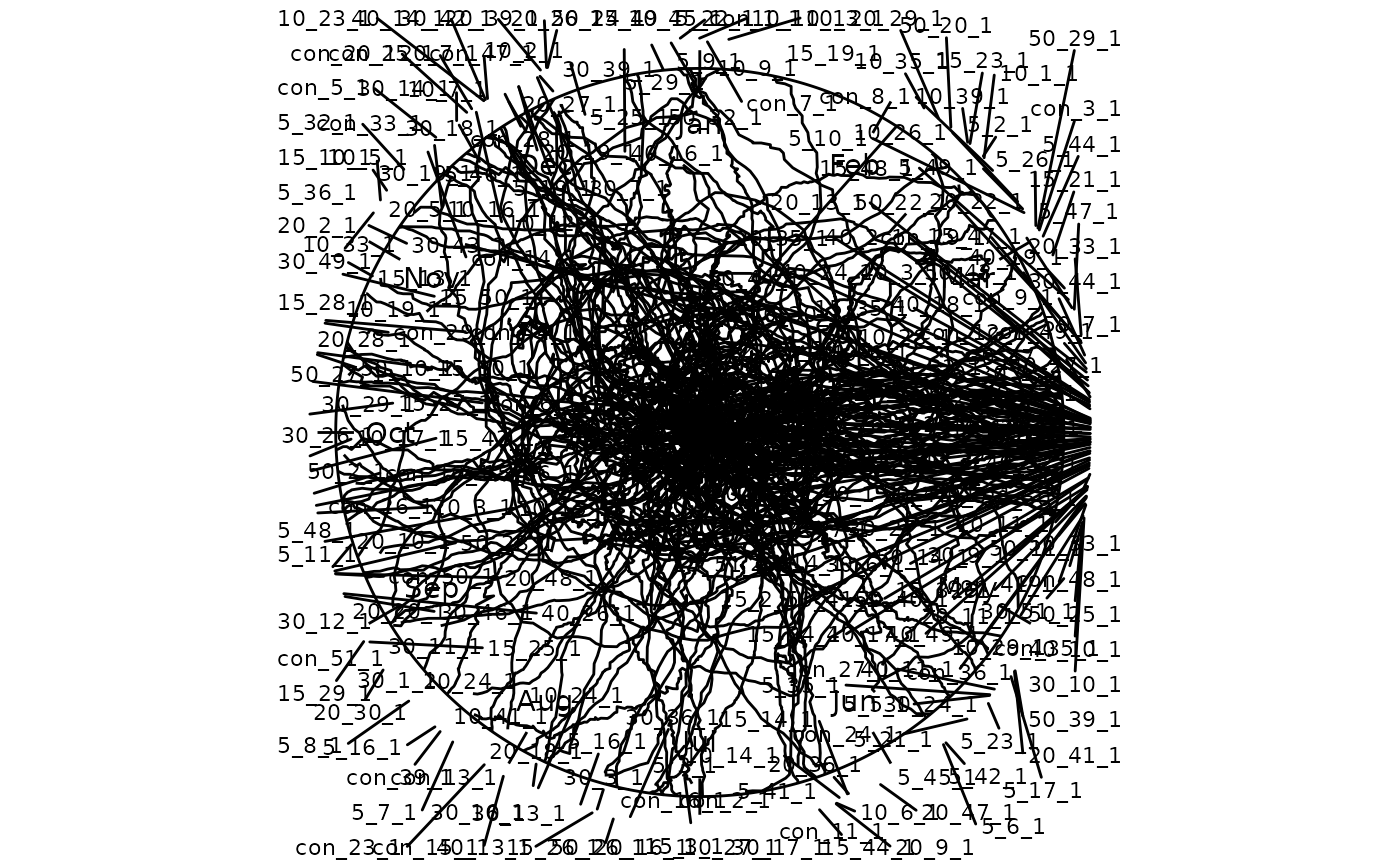
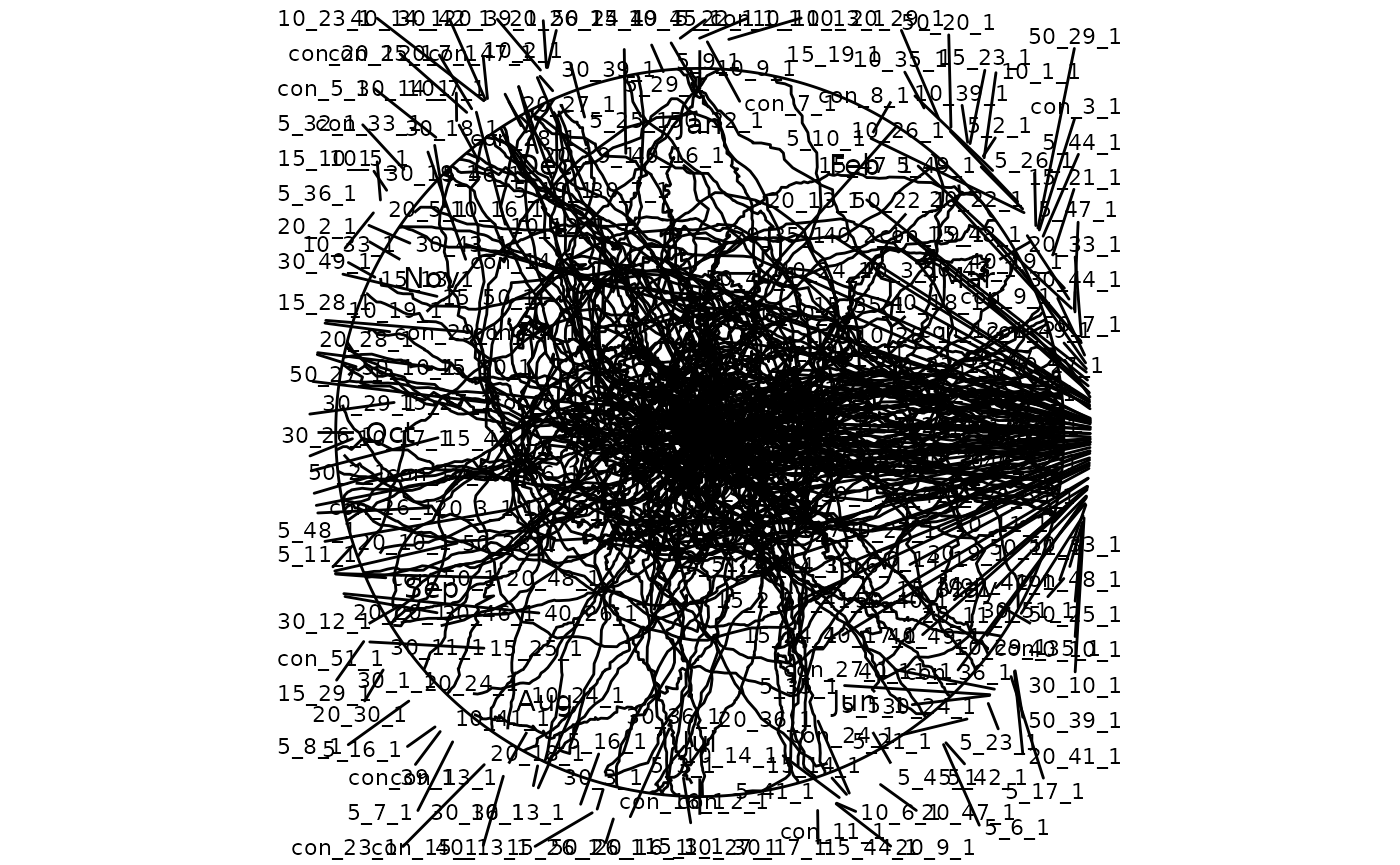
Deploying to gh-pages from @ JohnKirwan/radiatR@746fbe1f50ef5bf99b1731e3745aeef5eeff7e2c 🚀

diff --git a/app/index.html b/app/index.html
@@ -1,28 +1,25 @@
-<!doctype html>
+<!DOCTYPE html>
 <html lang="en">
-  <head>
-    <meta charset="UTF-8" />
-    <meta name="viewport" content="width=device-width, initial-scale=1.0" />
-    <title>Shiny App</title>
-    <script
-      src="./shinylive/load-shinylive-sw.js"
-      type="module"
-    ></script>
-    <script type="module">
-      import { runExportedApp } from "./shinylive/shinylive.js";
-      runExportedApp({
-        id: "root",
-        appEngine: "r",
-        relPath: "",
-      });
-    </script>
-    <link rel="stylesheet" href="./shinylive/style-resets.css" />
-    <link rel="stylesheet" href="./shinylive/shinylive.css" />
-    
-  </head>
-  <body>
-    
-    <div style="height: 100vh; width: 100vw" id="root"></div>
-    
-  </body>
+<head>
+  <meta charset="utf-8">
+  <title>radiatR app — redirecting…</title>
+  <!-- The radiatR Shiny app is hosted server-side on shinyapps.io. This page
+       replaces the retired in-browser shinylive build that used to live at
+       /app/, redirecting any old links/bookmarks to the live app. -->
+  <meta name="robots" content="noindex">
+  <link rel="canonical" href="https://johnkirwan.shinyapps.io/radiatR/">
+  <meta http-equiv="refresh" content="0; url=https://johnkirwan.shinyapps.io/radiatR/">
+  <script>
+    window.location.replace("https://johnkirwan.shinyapps.io/radiatR/");
+  </script>
+  <style>
+    body { font-family: system-ui, -apple-system, "Segoe UI", Roboto, sans-serif;
+           margin: 4rem auto; max-width: 32rem; padding: 0 1rem; line-height: 1.5; }
+    a { color: #2c3e50; }
+  </style>
+</head>
+<body>
+  <p>The radiatR app has moved. If you are not redirected automatically,
+     open <a href="https://johnkirwan.shinyapps.io/radiatR/">johnkirwan.shinyapps.io/radiatR</a>.</p>
+</body>
 </html>

diff --git a/index.html b/index.html
@@ -438,14 +438,16 @@
 <blockquote>
 <p><strong>Try it live:</strong> <a href="https://johnkirwan.shinyapps.io/radiatR/" class="external-link uri">https://johnkirwan.shinyapps.io/radiatR/</a></p>
 </blockquote>
-<p>There are three ways to reach it:</p>
+<p>There are two ways to reach it:</p>
 <p><strong>1. Run locally</strong> (works after installing the package):</p>
 <div class="sourceCode" id="cb17"><pre class="downlit sourceCode r">
 <code class="sourceCode R"><span><span class="fu">radiatR</span><span class="fu">::</span><span class="fu"><a href="reference/launch_app.html">launch_app</a></span><span class="op">(</span><span class="op">)</span></span></code></pre></div>
 <p><strong>2. Hosted on shinyapps.io</strong> (recommended for collaborators) — <a href="https://johnkirwan.shinyapps.io/radiatR/" class="external-link uri">https://johnkirwan.shinyapps.io/radiatR/</a>. A real Shiny server runs R server-side, so the page loads like any normal web app. The GitHub Actions workflow in <code>.github/workflows/shinyapps.yaml</code> deploys <code>inst/app</code> on each <strong>published GitHub Release</strong> (and on demand via <em>workflow_dispatch</em>). It needs three repository secrets from your shinyapps.io account — <code>SHINYAPPS_NAME</code> (the account name in the URL), <code>SHINYAPPS_TOKEN</code>, and <code>SHINYAPPS_SECRET</code> (Account → Tokens). To deploy by hand instead:</p>
 <div class="sourceCode" id="cb18"><pre class="downlit sourceCode r">
 <code class="sourceCode R"><span><span class="fu">rsconnect</span><span class="fu">::</span><span class="fu">deployApp</span><span class="op">(</span><span class="fu"><a href="https://rdrr.io/r/base/system.file.html" class="external-link">system.file</a></span><span class="op">(</span><span class="st">"app"</span>, package <span class="op">=</span> <span class="st">"radiatR"</span><span class="op">)</span><span class="op">)</span></span></code></pre></div>
-<p><strong>3. Static site (no server)</strong> — a <code>shinylive</code> build runs the app entirely in the browser via WebAssembly, so uploaded files never leave the user’s machine (which suits sensitive data). The GitHub Actions workflow in <code>.github/workflows/shinylive.yaml</code> publishes it to GitHub Pages alongside the documentation, at <a href="https://johnkirwan.github.io/radiatR/app/" class="uri">https://johnkirwan.github.io/radiatR/app/</a>. The build runs on each <strong>published GitHub Release</strong>: it compiles radiatR into a webR WebAssembly image (attached to the release), then exports and deploys the app. Because it ships and runs the whole R runtime in the browser, first load is heavy and it needs cross-origin isolation — prefer option 2 for a responsive shared link, and keep this as the no-server fallback.</p>
+<blockquote>
+<p>The old in-browser <code>shinylive</code> (WebAssembly) build at <a href="https://johnkirwan.github.io/radiatR/app/" class="uri">https://johnkirwan.github.io/radiatR/app/</a> has been retired — that URL now redirects to the shinyapps.io app above. The WASM build shipped the whole R runtime to the browser, so it loaded slowly and needed cross-origin isolation that GitHub Pages can’t provide, making it unreliable. The server-side shinyapps.io deploy replaces it.</p>
+</blockquote>
 </div>
 <div class="section level2">
 <h2 id="optional-dependencies">Optional Dependencies<a class="anchor" aria-label="anchor" href="#optional-dependencies"></a>

diff --git a/copilot-instructions.html b/copilot-instructions.html
@@ -103,7 +103,7 @@
 <div class="section level2">
 <h2 id="existing-assistantconfig-files-to-consult">Existing assistant/config files to consult<a class="anchor" aria-label="anchor" href="#existing-assistantconfig-files-to-consult"></a></h2>
 <ul><li><p>CLAUDE.md — contains an authoritative short guide to architecture, test commands, and app/testing guidance. Consult it for project-specific rationale and conventions.</p></li>
-<li><p>.github/workflows/* — CI workflows (R-CMD-check.yaml, pkgdown.yaml, shinylive.yaml) contain useful automation details (notably shinylive release/static app build on releases).</p></li>
+<li><p>.github/workflows/* — CI workflows (R-CMD-check.yaml, pkgdown.yaml, shinyapps.yaml) contain useful automation details (notably the server-side shinyapps.io app deploy on releases / workflow_dispatch).</p></li>
 </ul><hr><p>If maintained: suggest improvements rather than full replacements — include new top-level commands or changed CI steps in this file.</p>
 <hr><p>Created by an automated Copilot session. For adjustments (additions, more single-test examples, or test/debug recipes), reply with what to include next.</p>
 </div>

diff --git a/index.md b/index.md
@@ -370,7 +370,7 @@ statistics — with no R coding required.
 
 > **Try it live:** <https://johnkirwan.shinyapps.io/radiatR/>
 
-There are three ways to reach it:
+There are two ways to reach it:
 
 **1. Run locally** (works after installing the package):
 
@@ -394,17 +394,12 @@ by hand instead:
 rsconnect::deployApp(system.file("app", package = "radiatR"))
 ```
 
-**3. Static site (no server)** — a `shinylive` build runs the app
-entirely in the browser via WebAssembly, so uploaded files never leave
-the user’s machine (which suits sensitive data). The GitHub Actions
-workflow in `.github/workflows/shinylive.yaml` publishes it to GitHub
-Pages alongside the documentation, at
-<https://johnkirwan.github.io/radiatR/app/>. The build runs on each
-**published GitHub Release**: it compiles radiatR into a webR
-WebAssembly image (attached to the release), then exports and deploys
-the app. Because it ships and runs the whole R runtime in the browser,
-first load is heavy and it needs cross-origin isolation — prefer option
-2 for a responsive shared link, and keep this as the no-server fallback.
+> The old in-browser `shinylive` (WebAssembly) build at
+> <https://johnkirwan.github.io/radiatR/app/> has been retired — that
+> URL now redirects to the shinyapps.io app above. The WASM build
+> shipped the whole R runtime to the browser, so it loaded slowly and
+> needed cross-origin isolation that GitHub Pages can’t provide, making
+> it unreliable. The server-side shinyapps.io deploy replaces it.
 
 ## Optional Dependencies
 

diff --git a/copilot-instructions.md b/copilot-instructions.md
@@ -118,8 +118,8 @@ run, navigate, and modify this repository safely and effectively.
   project-specific rationale and conventions.
 
 - .github/workflows/\* — CI workflows (R-CMD-check.yaml, pkgdown.yaml,
-  shinylive.yaml) contain useful automation details (notably shinylive
-  release/static app build on releases).
+  shinyapps.yaml) contain useful automation details (notably the
+  server-side shinyapps.io app deploy on releases / workflow_dispatch).
 
 ------------------------------------------------------------------------
 